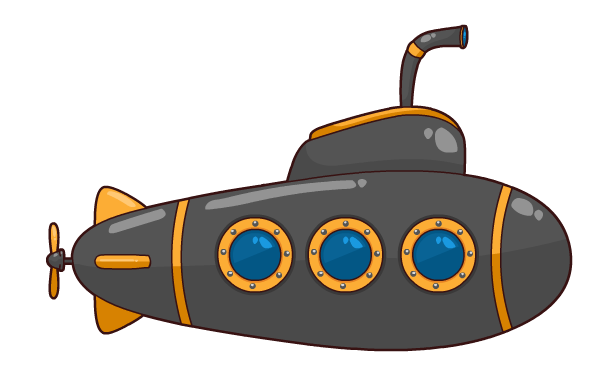
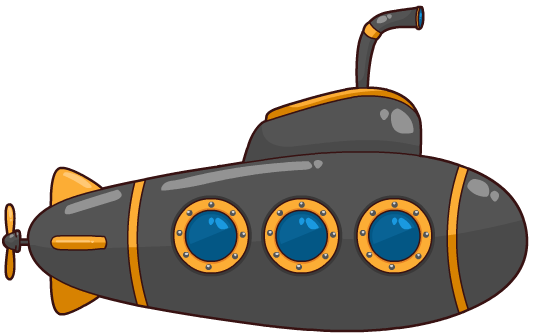
Second Commit

Changed region(s): [[0.0, 0.0, 0.9724, 1.0]]

diff --git a/js/script.js b/js/script.js
@@ -1,184 +1,4 @@
 
-/*
-// Game Variables
-var fireButton;
-var x = 1;
-var height = 400;
-var width = 400;
-var gameStart = false;
-var score = 0;
-var scoreText;
-var playerHealth = 5;
-var playerHealthText;
-
-var game = new Phaser.Game(height, width, Phaser.AUTO, '', { preload: preload, create: create, update: update });
-function preload() {
-    game.load.image('blue', 'assets/ship.png');
-    game.load.image('red', 'assets/dude.png');
-    game.load.image('blueBullet', 'assets/bullets.png')
-    game.load.image('redBullet', 'assets/dude.png')
-}
-
-function create() {
-    player = game.add.sprite(height/2, width/2, 'blue');
-    cursors = game.input.keyboard.createCursorKeys();
-    gameStart = true;
-
-    //  This will force it to decelerate and limit its speed
-    player.body.collideWorldBounds = true;
-
-    fireButton = game.input.keyboard.addKey(Phaser.Keyboard.SPACEBAR);
-    fireButton.onDown.add(fireBullet, this);
-
-    // Our enemy group
-    enemies = game.add.group();
-
-    //  Our bullet group
-    bullets = game.add.group();
-    bullets.createMultiple(30, 'blueBullet');
-    bullets.setAll('anchor.x', 0.5);
-    bullets.setAll('anchor.y', 0.5);
-    bullets.setAll('outOfBoundsKill', true);
-
-    player.anchor.setTo(0.5, 0.5);
-    scoreText = game.add.text(16, 16, 'score: 0', { font: '32px arial', fill: '#fff' });
-    playerHealthText = game.add.text(16, 350, 'Health: 5', { font: '32px arial', fill: '#fff' });
-    
-}
-
-function update() { 
-    // Rotates Player on Left / Right keys 
-
-    player.body.velocity.x = 0;
-    player.body.velocity.y = 0;
-    player.body.angularVelocity = 0;
-
-    //player.rotation = player.body.angularVelocity;
-
-    if (game.input.keyboard.isDown(Phaser.Keyboard.LEFT) || game.input.keyboard.isDown(Phaser.Keyboard.A))
-    {
-        player.body.angularVelocity = -200;
-    }
-    else if (game.input.keyboard.isDown(Phaser.Keyboard.RIGHT) || game.input.keyboard.isDown(Phaser.Keyboard.D))
-    {
-        player.body.angularVelocity = 200;
-    }
-    // Keybinding (Up)
-    if (game.input.keyboard.isDown(Phaser.Keyboard.UP) || game.input.keyboard.isDown(Phaser.Keyboard.W))
-    {
-        game.physics.velocityFromAngle(player.angle, 50, player.body.velocity);
-    }
-    // Keybinding (Down)
-    if (game.input.keyboard.isDown(Phaser.Keyboard.DOWN) || game.input.keyboard.isDown(Phaser.Keyboard.S))
-    {
-        game.physics.velocityFromAngle(player.angle, -20, player.body.velocity);
-    }
-
-    //enemy movement
-    while(enemies.countLiving() < x)
-    {
-        createEnemy();
-    }
-
-
-   game.physics.collide(bullets, enemies, bulletHitEnemy, null, this);
-   game.physics.collide(enemies, player, enemyHitPlayer, null, this);
-
-    if (gameStart === true)
-    {
-        //  First is the callback
-        //  Second is the context in which the callback runs, in this case game.physics
-        //  Third is the parameter the callback expects - it is always sent the Group child as the first parameter
-        //enemies.forEach(game.physics.moveToPointer, game.physics, false, 100);
-        enemies.forEach(
-            function(singleEnemy) {
-                this.moveToObject(singleEnemy, player, 20);
-            }, game.physics);
-
-        // Sweet orbiting thing
-       /** enemies.forEach(function(enemie) 
-            {
-                this.accelerateToObject(enemie, player, 600, 250, 250);
-            }, game.physics);**/
-/*
-    }
-    else
-    {
-        enemies.setAll('body.velocity.x', 0);
-        enemies.setAll('body.velocity.y', 0);
-    }
-
-    if (playerHealth === 0){
-        endGame();
-    }
-
-
-}
-
-// Randomly places enemy on outside walls
-function createEnemy(){
-    var randomSpawn = Math.floor(Math.random()*4);
-    switch(randomSpawn){
-        case 0:
-        enemies.create(0, game.world.randomY, 'red');
-        break;
-        case 1:
-        enemies.create(game.world.randomX, 0, 'red');
-        break;
-        case 2:
-        enemies.create(game.world.randomX, height, 'red');
-        break;
-        case 3:
-        enemies.create(width, game.world.randomY, 'red');
-        break;
-        default:
-        console.log("error");
-    }
-}
-
-function enemyChase(){
-    if(this.enemies.x < player.x){
-        this.enemies.x
-    }
-}
-
-function fireBullet () {
-        bullet = bullets.getFirstExists(false);
-
-        if (bullet)
-        {
-            //  And fire it
-            bullet.reset(player.x, player.y);
-           // bullet.rotation = game.physics.moveToPointer(bullet, 300);
-            game.physics.velocityFromAngle(player.angle, 400, bullet.body.velocity);
-        }
-}
-function bulletHitEnemy (blueBullet, redbox) {
-
-    blueBullet.kill();
-    redbox.kill();
-    x++;//When enemy is killed, +1 added to X - which causes 2 to spawn whenever an enemy is killed.
-    score += 1;
-    scoreText.content = 'Score: ' + score;
-}
-
-function enemyHitPlayer (player, redbox) {
-   playerHealth -= 1;
-   playerHealthText.content = 'Health: ' + playerHealth;
-   redbox.kill();
-   if (playerHealth === 0){
-        player.kill();
-   }
-}
-
-function endGame (player, redbox) {
-    var text = "You have been swarmed\n refresh browser to restart";
-    var style = { font: "30px Arial", fill: "#ff0044", align: "center" };
-    var t = game.add.text(game.world.centerX-180, 250, text, style);
-    playerHealth-=1;
-}
-*/
-
 
 
 var game = new Phaser.Game(800, 600, Phaser.CANVAS, 'container', { preload: preload, create: create, update: update, render: render });
@@ -189,7 +9,8 @@ function preload() {
     game.load.image('bullet', 'assets/bullets.png');
     game.load.image('submarine', 'assets/submarine.png');
     game.load.image('enemy', 'assets/octopus.png');
-    game.load.atlasXML('octopus', 'assets/octopus.png', 'assets/octopus.xml');
+    game.load.image('octopus', 'assets/octopus_small.png');
+    //game.load.atlasXML('octopus', 'assets/octopus.png', 'assets/octopus.xml');
     game.load.image('undersea', 'assets/undersea.jpg');
 
     game.load.spritesheet('dude', 'assets/dude.png', 32, 48);
@@ -232,22 +53,8 @@ function create() {
 
     octopus.callAll('animations.add', 'animations', 'swim', frameNames, 30, true, false);
 
-    //  Here we just say 'play the swim animation', this time the 'play' method exists on the child itself, so we can set the context to null.
+    // 'play the swim animation', this time the 'play' method exists on the child itself, so we can set the context to null.
     octopus.callAll('play', null, 'swim');
-
-    var octopi = game.add.sprite(300, 200, 'octopus');
-
-    //  Create an animation called 'swim', the fact we don't specify any frames means it will use all frames in the atlas
-    octopi.animations.add('swim');
-
-    //  Play the animation at 30fps on a loop
-    octopi.animations.play('swim', 30, true);
-
-    //  Create an animation called 'swim', the fact we don't specify any frames means it will use all frames in the atlas
-    //octopus.animations.add('swim');
-
-    //  Play the animation at 30fps on a loop
-    //octopus.animations.play('swim', 30, true);
 
     //  Our ships bullets
     bullets = game.add.group();
@@ -262,7 +69,7 @@ function create() {
     //  Our player ship
     sprite = game.add.sprite(300, 300, 'submarine');
     sprite.anchor.set(0.5);
-    sprite.scale.setTo(0.2,0.2);
+    sprite.scale.setTo(0.1,0.1);
 
     //  and its physics settings
     game.physics.enable(sprite, Phaser.Physics.ARCADE);
@@ -282,12 +89,12 @@ function create() {
 function update() {
 
       if (alive == true) {
+        fireButton = game.input.keyboard.addKey(Phaser.Keyboard.SPACEBAR);
+        fireButton.onDown.add(fireBullet, this);
         // Creates enemies
         while (octopus.countLiving() < enemyNum) {
-            octopus.create(game.world.randomX, game.world.randomY, 'octopus')
-            
-
-
+            //octopus.create(game.world.randomX, game.world.randomY, 'octopus')
+            createOctopus();
         }
 
         if (cursors.up.isDown)
@@ -319,48 +126,60 @@ function update() {
             sprite.body.angularVelocity = 0;
 
         }
+        
+        
 
-        if (game.input.keyboard.isDown(Phaser.Keyboard.SPACEBAR))
-        {
-            fireBullet();
+       
+
+        /* This section causes the octopus to chase the player */
+        if (enemyNum < 5) {
+            //or accelerateToObject
+            octopus.forEach( function(enemie) {
+                this.moveToObject(enemie, sprite, 50);
+            }, game.physics.arcade);
+        } else if ((enemyNum > 5 && enemyNum < 10)) {
+            octopus.forEach( function(enemie) {
+                this.moveToObject(enemie, sprite, 40);
+            }, game.physics.arcade);
+
+            sprite.body.drag.set(10);
+        sprite.body.maxVelocity.set(400);
+
+        } else if ((enemyNum > 10 && enemyNum < 20)) {
+            octopus.forEach( function(enemie) {
+                this.moveToObject(enemie, sprite, 30);
+            }, game.physics.arcade);
         }
-
-
-
-        //or accelerateToObject
-        octopus.forEach( function(enemie) {
-            this.moveToObject(enemie, sprite, 50);
-        }, game.physics.arcade);
-
   
 
         // calls the kill methods when the emenies, players, and bullets collide
         game.physics.arcade.collide(bullets, octopus, killEnemy);
-        //game.physics.arcade.collide(sprite, octopus, killPlayer, null, this);
+        game.physics.arcade.collide(sprite, octopus, killPlayer, null, this);
         screenWrap(sprite);
 
-        bullets.forEachExists(screenWrap, this);
+        //bullets.forEachExists(screenWrap, this);
     }
    
 }
 
 function fireBullet () {
-
-    if (game.time.now > bulletTime)
-    {
-        bullet = bullets.getFirstExists(false);
-
-        if (bullet)
+    // cant fire if the sprite is dead
+    if (alive == true) {
+        if (game.time.now > bulletTime)
         {
-            // controls where bullet is fired from
-            bullet.reset(sprite.body.x + 50, sprite.body.y + 52);
-            bullet.lifespan = 1800;
-            bullet.rotation = sprite.rotation;
-            game.physics.arcade.velocityFromRotation(sprite.rotation, 400, bullet.body.velocity);
-            bulletTime = game.time.now + 50;
+            bullet = bullets.getFirstExists(false);
+
+            if (bullet)
+            {
+                // controls where bullet is fired from
+                bullet.reset(sprite.body.x + 50, sprite.body.y + 52);
+                bullet.lifespan = 1800;
+                bullet.rotation = sprite.rotation;
+                game.physics.arcade.velocityFromRotation(sprite.rotation, 400, bullet.body.velocity);
+                bulletTime = game.time.now + 50;
+            }
         }
     }
-
 }
 
 function screenWrap (sprite) {
@@ -383,6 +202,27 @@ function screenWrap (sprite) {
         sprite.y = 0;
     }
 
+}
+
+// Randomly places enemy on outside walls so that it doesnt spawn too close to player
+function createOctopus(){
+    var randomSpawn = Math.floor(Math.random()*4);
+    switch(randomSpawn){
+        case 0:
+        octopus.create(0, game.world.randomY, 'octopus');
+        break;
+        case 1:
+        octopus.create(game.world.randomX, 0, 'octopus');
+        break;
+        case 2:
+        octopus.create(game.world.randomX, 600, 'octopus');
+        break;
+        case 3:
+        octopus.create(800, game.world.randomY, 'octopus');
+        break;
+        default:
+        console.log("error");
+    }
 }
 
 function killEnemy (bullet, enemy) {
